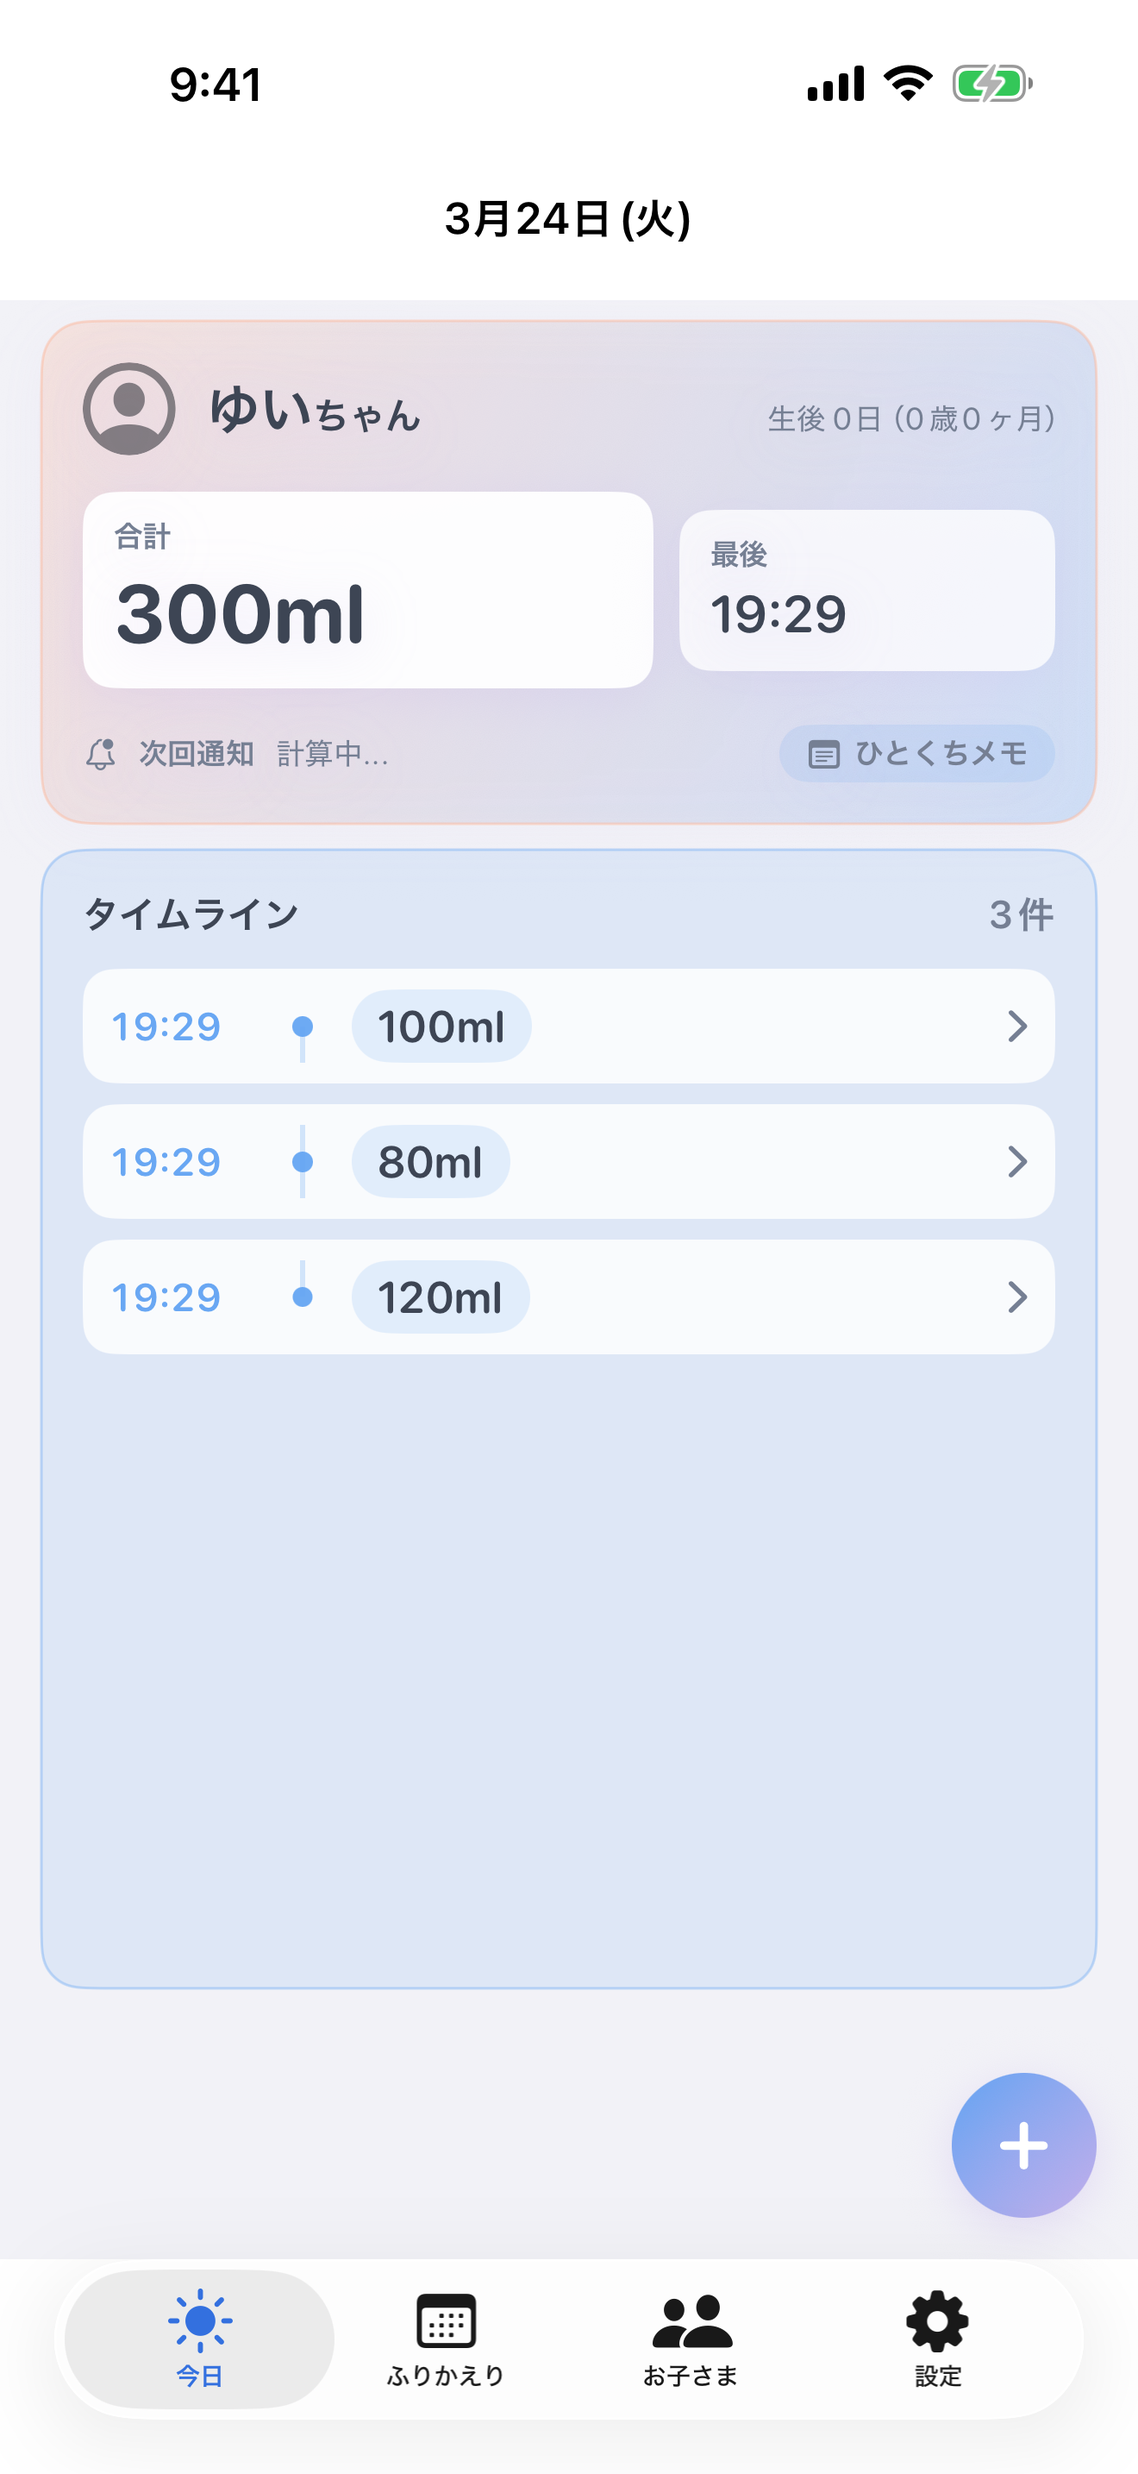
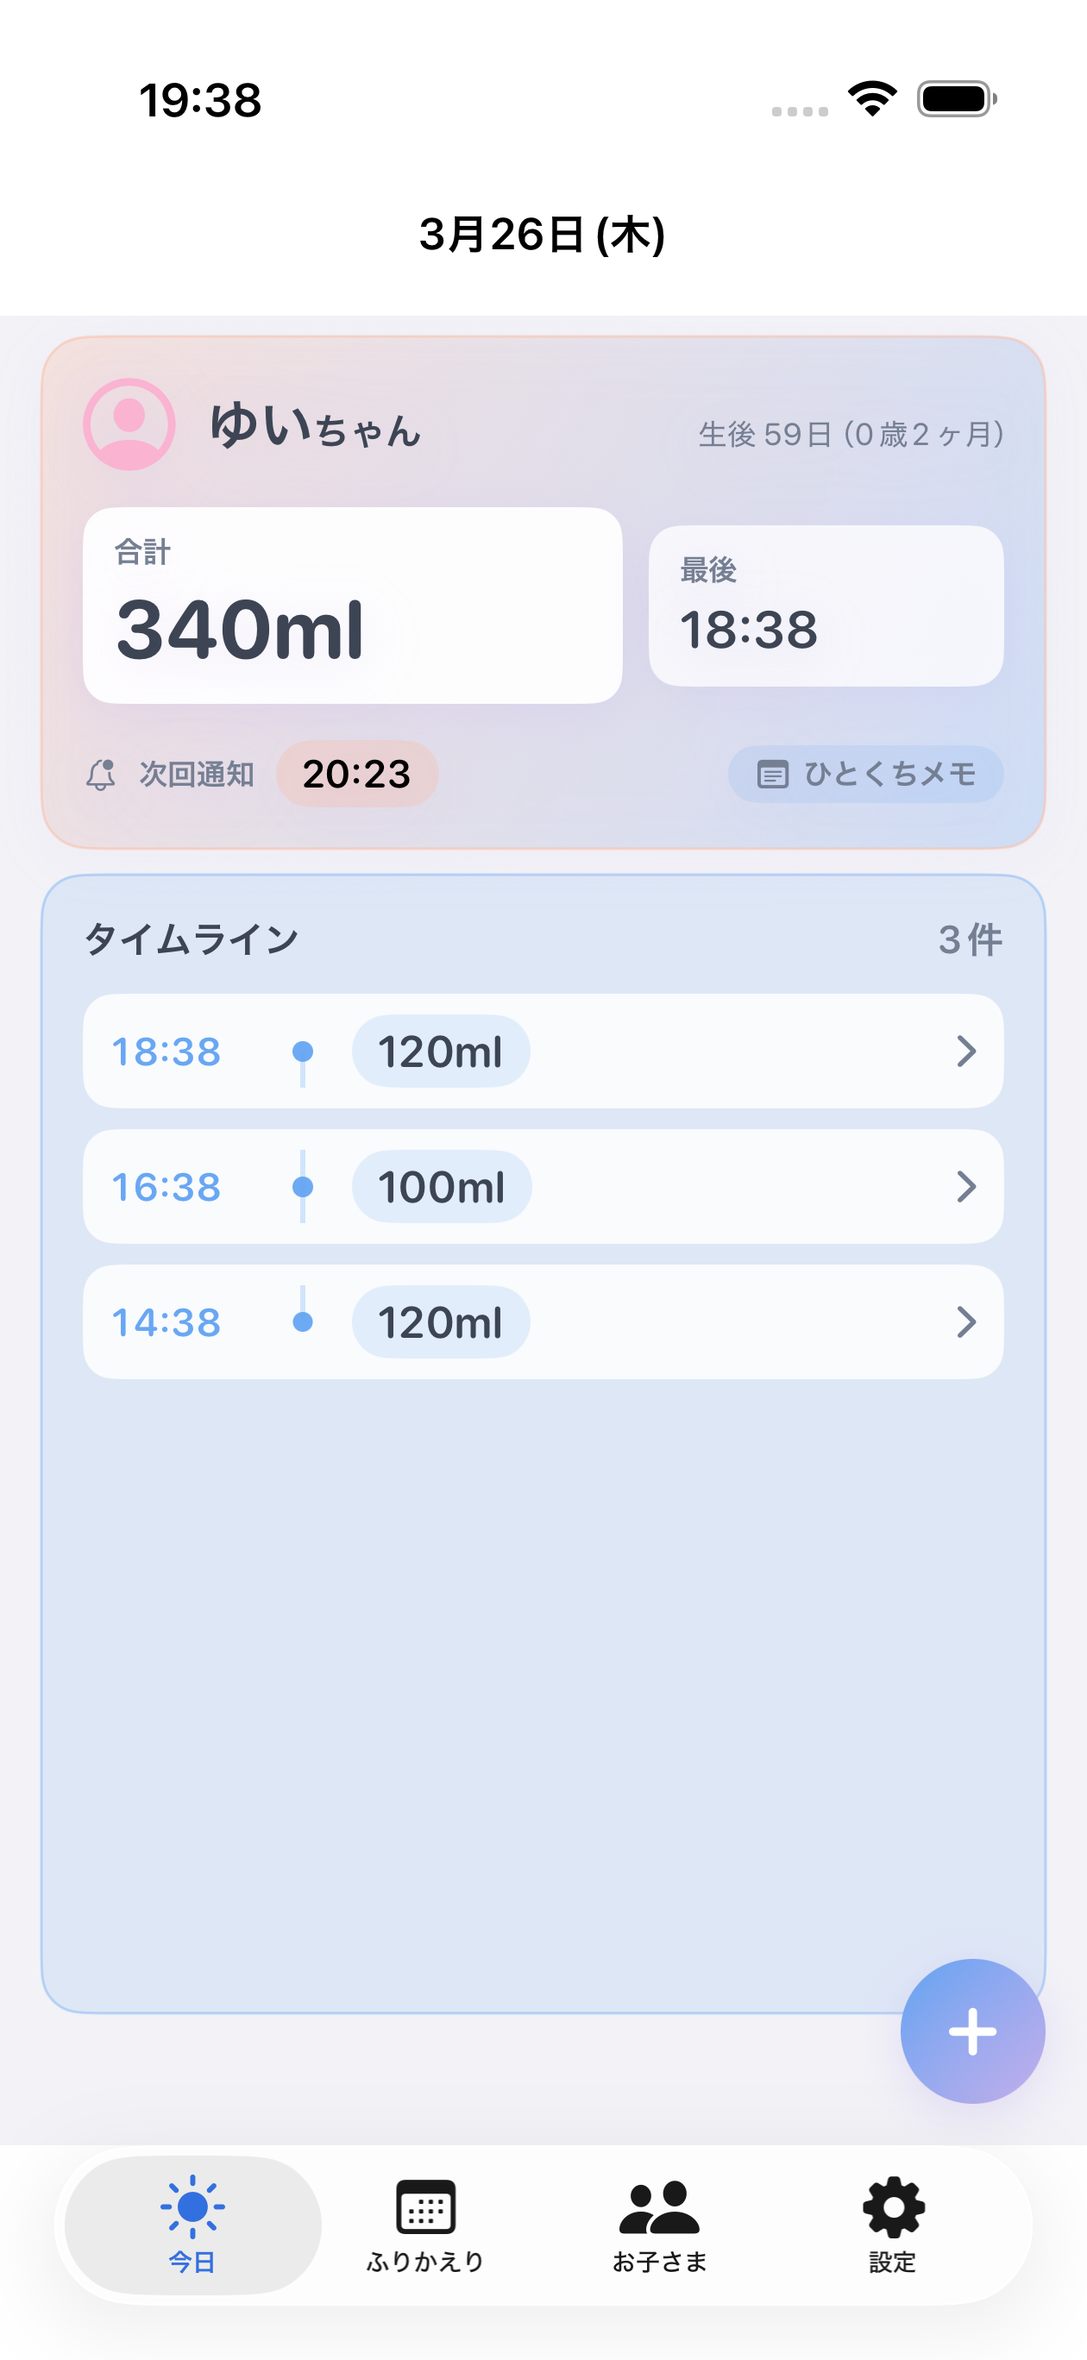
feat: ダークモード対応・テーマトグル・UI改善
- 公式App Storeバッジ（黒・白）に差し替え
- ダーク/ライト切替トグルボタンを追加（localStorage保存）
- ダークモードをアプリのカラーセットに準拠して実装
- ダーク時にスクリーンショットをdarkmode/に自動切替
- feature__bodyにスクロール表示アニメーションを追加
- App Store URLを本番URLに更新
- SP時のフォントサイズを13pxベースに縮小
- 文章を句点で改行区切りに調整

diff --git a/index.html b/index.html
@@ -30,13 +30,21 @@
 
   <!-- Global Nav -->
   <header class="global-nav">
+    <button class="theme-toggle" id="theme-toggle" aria-label="ダークモード切替">
+      <svg class="theme-toggle__sun" viewBox="0 0 24 24" fill="none" stroke="currentColor" stroke-width="1.8" aria-hidden="true">
+        <circle cx="12" cy="12" r="4"/><path d="M12 2v2M12 20v2M4.22 4.22l1.42 1.42M18.36 18.36l1.42 1.42M2 12h2M20 12h2M4.22 19.78l1.42-1.42M18.36 5.64l1.42-1.42"/>
+      </svg>
+      <svg class="theme-toggle__moon" viewBox="0 0 24 24" fill="none" stroke="currentColor" stroke-width="1.8" aria-hidden="true">
+        <path d="M21 12.79A9 9 0 1111.21 3 7 7 0 0021 12.79z"/>
+      </svg>
+    </button>
     <button class="hamburger" id="hamburger" aria-label="メニューを開く" aria-expanded="false" aria-controls="nav-menu">
       <span class="hamburger__line"></span>
       <span class="hamburger__line"></span>
       <span class="hamburger__line"></span>
     </button>
     <nav class="nav-menu" id="nav-menu" aria-hidden="true">
-      <a href="#" class="nav-menu__item" id="nav-store">App Storeでダウンロード</a>
+      <a href="https://apps.apple.com/app/id6761168385" target="_blank" rel="noopener noreferrer" class="nav-menu__item" id="nav-store">App Storeでダウンロード</a>
       <a href="./privacy/" class="nav-menu__item">プライバシーポリシー</a>
       <a href="https://docs.google.com/forms/d/e/1FAIpQLSebXE-oB0zj7e1wwz9V6bgFZXMlNq-PU2ME0EX8Ns8LvLQyqw/viewform"
         target="_blank" rel="noopener noreferrer" class="nav-menu__item">お問い合わせ</a>
@@ -54,13 +62,13 @@
         </div>
         <h1 class="hero__catch">声ひとつで、<br>ミルク記録。</h1>
         <p class="hero__sub">手が塞がっていても、Siriで即記録できる<br>赤ちゃんの授乳管理アプリ</p>
-        <a href="#" class="btn-badge" aria-label="App Storeからダウンロード">
-          <img src="./assets/images/appstore-badge.svg" alt="Download on the App Store" class="appstore-badge">
+        <a href="https://apps.apple.com/app/id6761168385" target="_blank" rel="noopener noreferrer" class="btn-badge" aria-label="App Storeからダウンロード">
+          <img src="./assets/images/appstore-badge.svg" data-light-src="./assets/images/appstore-badge.svg" data-dark-src="./assets/images/appstore-badge-white.svg" alt="Download on the App Store" class="appstore-badge">
         </a>
       </div>
       <div class="hero__mockup">
         <div class="phone-frame">
-          <img src="./assets/images/screenshots/today.png" alt="ミルログ 今日の記録画面">
+          <img src="./assets/images/screenshots/today.png" data-light-src="./assets/images/screenshots/today.png" data-dark-src="./assets/images/screenshots/darkmode/today.png" alt="ミルログ 今日の記録画面">
         </div>
       </div>
     </div>
@@ -100,7 +108,7 @@
           <p>記録をし忘れて<br>次の授乳がいつか分からない...</p>
         </div>
       </div>
-      <p class="problem__resolve">ミルログなら、<strong>声だけで記録。次回は自動でお知らせ。</strong></p>
+      <p class="problem__resolve">ミルログなら、<strong>声だけで記録。<br>次回は自動でお知らせ。</strong></p>
     </div>
   </section>
 
@@ -113,12 +121,12 @@
         <div class="feature__body">
           <span class="feature__num">01</span>
           <h3 class="feature__title">Siriで声ひとつ記録</h3>
-          <p class="feature__desc">「Hey Siri、ミルログでミルク120ミリ」のひと言で記録完了。抱っこ中も、深夜も、手を使わずに記録できます。タップ入力派にも、よく使う量のプリセットで素早く対応。
+          <p class="feature__desc">「Hey Siri、ミルログでミルク120ミリ」のひと言で記録完了。<br>抱っこ中も、深夜も、手を使わずに記録できます。<br>タップ入力派にも、よく使う量のプリセットで素早く対応。
           </p>
         </div>
         <div class="feature__screen">
           <div class="phone-frame phone-frame--sm">
-            <img src="./assets/images/screenshots/quickadd.png" alt="クイック入力画面">
+            <img src="./assets/images/screenshots/quickadd.png" data-light-src="./assets/images/screenshots/quickadd.png" data-dark-src="./assets/images/screenshots/darkmode/quickadd.png" alt="クイック入力画面">
           </div>
         </div>
       </div>
@@ -127,11 +135,11 @@
         <div class="feature__body">
           <span class="feature__num">02</span>
           <h3 class="feature__title">今日の状況をひと目で</h3>
-          <p class="feature__desc">合計量・最後の授乳時刻・次回通知時刻を一画面に集約。タイムラインで当日の記録を時系列で確認。タップで編集、長押しで削除と、操作も直感的です。</p>
+          <p class="feature__desc">合計量・最後の授乳時刻・次回通知時刻を一画面に集約。<br>タイムラインで当日の記録を時系列で確認。<br>タップで編集、長押しで削除と、操作も直感的です。</p>
         </div>
         <div class="feature__screen">
           <div class="phone-frame phone-frame--sm">
-            <img src="./assets/images/screenshots/today.png" alt="今日の記録画面">
+            <img src="./assets/images/screenshots/today.png" data-light-src="./assets/images/screenshots/today.png" data-dark-src="./assets/images/screenshots/darkmode/today.png" alt="今日の記録画面">
           </div>
         </div>
       </div>
@@ -140,11 +148,11 @@
         <div class="feature__body">
           <span class="feature__num">03</span>
           <h3 class="feature__title">次の授乳を自動通知</h3>
-          <p class="feature__desc">直近の授乳間隔から次回のタイミングを自動計算して通知。子どもごとに個別スケジュールで管理するから、複数のお子さまがいても安心です。</p>
+          <p class="feature__desc">直近の授乳間隔から次回のタイミングを自動計算して通知。<br>子どもごとに個別スケジュールで管理するから、複数のお子さまがいても安心です。</p>
         </div>
         <div class="feature__screen">
           <div class="phone-frame phone-frame--sm">
-            <img src="./assets/images/screenshots/today.png" alt="次回通知表示">
+            <img src="./assets/images/screenshots/today.png" data-light-src="./assets/images/screenshots/today.png" data-dark-src="./assets/images/screenshots/darkmode/today.png" alt="次回通知表示">
           </div>
         </div>
       </div>
@@ -153,11 +161,11 @@
         <div class="feature__body">
           <span class="feature__num">04</span>
           <h3 class="feature__title">週ごとにふりかえり</h3>
-          <p class="feature__desc">週間カレンダーと授乳量チャートで傾向を把握。ミルクだけでなく、母乳・混合にも対応。1日ごとのメモや気分も記録できる「ひとくちメモ」つき。</p>
+          <p class="feature__desc">週間カレンダーと授乳量チャートで傾向を把握。<br>ミルクだけでなく、母乳・混合にも対応。<br>1日ごとのメモや気分も記録できる「ひとくちメモ」つき。</p>
         </div>
         <div class="feature__screen">
           <div class="phone-frame phone-frame--sm">
-            <img src="./assets/images/screenshots/history.png" alt="ふりかえり画面">
+            <img src="./assets/images/screenshots/history.png" data-light-src="./assets/images/screenshots/history.png" data-dark-src="./assets/images/screenshots/darkmode/history.png" alt="ふりかえり画面">
           </div>
         </div>
       </div>
@@ -171,8 +179,8 @@
       <img src="./assets/images/icon.png" alt="ミルログ" class="cta-section__icon">
       <h2 class="cta-section__title">今日から記録をはじめよう</h2>
       <p class="cta-section__sub">無料でダウンロードできます</p>
-      <a href="#" class="btn-badge" aria-label="App Storeからダウンロード">
-        <img src="./assets/images/appstore-badge.svg" alt="Download on the App Store" class="appstore-badge">
+      <a href="https://apps.apple.com/app/id6761168385" target="_blank" rel="noopener noreferrer" class="btn-badge" aria-label="App Storeからダウンロード">
+        <img src="./assets/images/appstore-badge.svg" data-light-src="./assets/images/appstore-badge.svg" data-dark-src="./assets/images/appstore-badge-white.svg" alt="Download on the App Store" class="appstore-badge">
       </a>
     </div>
   </section>
@@ -191,6 +199,7 @@
   </footer>
 
   <script>
+    // --- Hamburger ---
     const hamburger = document.getElementById('hamburger');
     const menu = document.getElementById('nav-menu');
     const overlay = document.getElementById('nav-overlay');
@@ -214,12 +223,53 @@
     hamburger.addEventListener('click', () => {
       hamburger.classList.contains('is-open') ? closeMenu() : openMenu();
     });
-
     overlay.addEventListener('click', closeMenu);
-
     menu.querySelectorAll('.nav-menu__item').forEach(item => {
       item.addEventListener('click', closeMenu);
     });
+
+    // --- Theme Toggle ---
+    const themeToggle = document.getElementById('theme-toggle');
+    const STORAGE_KEY = 'millog-theme';
+
+    function getSystemTheme() {
+      return window.matchMedia('(prefers-color-scheme: dark)').matches ? 'dark' : 'light';
+    }
+
+    function applyTheme(theme) {
+      document.documentElement.dataset.theme = theme;
+      document.querySelectorAll('img[data-dark-src]').forEach(img => {
+        img.src = theme === 'dark' ? img.dataset.darkSrc : img.dataset.lightSrc;
+      });
+    }
+
+    // 初期テーマ（保存済み優先、なければシステム設定）
+    applyTheme(localStorage.getItem(STORAGE_KEY) || getSystemTheme());
+
+    themeToggle.addEventListener('click', () => {
+      const next = document.documentElement.dataset.theme === 'dark' ? 'light' : 'dark';
+      localStorage.setItem(STORAGE_KEY, next);
+      applyTheme(next);
+    });
+
+    // システム設定変更を検知（手動設定がない場合のみ追従）
+    window.matchMedia('(prefers-color-scheme: dark)').addEventListener('change', e => {
+      if (!localStorage.getItem(STORAGE_KEY)) {
+        applyTheme(e.matches ? 'dark' : 'light');
+      }
+    });
+
+    // --- Scroll Reveal ---
+    const observer = new IntersectionObserver((entries) => {
+      entries.forEach(entry => {
+        if (entry.isIntersecting) {
+          entry.target.classList.add('is-visible');
+          observer.unobserve(entry.target);
+        }
+      });
+    }, { threshold: 0.2 });
+
+    document.querySelectorAll('.feature__body').forEach(el => observer.observe(el));
   </script>
 
 </body>

diff --git a/style.css b/style.css
@@ -117,6 +117,9 @@ footer {
   top: 20px;
   right: 20px;
   z-index: 200;
+  display: flex;
+  align-items: center;
+  gap: 8px;
 }
 
 /* Hamburger button */
@@ -382,6 +385,14 @@ footer {
 .feature__body {
   text-align: center;
   max-width: 480px;
+  opacity: 0;
+  transform: translateY(24px);
+  transition: opacity 0.6s ease, transform 0.6s ease;
+}
+
+.feature__body.is-visible {
+  opacity: 1;
+  transform: translateY(0);
 }
 
 .feature__num {
@@ -535,6 +546,10 @@ footer {
 
 /* ---------- Mobile ---------- */
 @media (max-width: 767px) {
+  html {
+    font-size: 81.25%; /* 16px → 13px、rem全体を約18.75%縮小 */
+  }
+
   .hero {
     padding: 56px 0 0;
   }
@@ -641,4 +656,155 @@ footer {
   .phone-frame--sm {
     width: 250px;
   }
+}
+
+/* ---------- Theme Toggle Button ---------- */
+.theme-toggle {
+  width: 44px;
+  height: 44px;
+  background: rgba(255, 255, 255, 0.85);
+  backdrop-filter: blur(12px);
+  -webkit-backdrop-filter: blur(12px);
+  border: none;
+  border-radius: 12px;
+  box-shadow: 0 2px 12px rgba(0, 0, 0, 0.10);
+  cursor: pointer;
+  display: flex;
+  align-items: center;
+  justify-content: center;
+  color: var(--text-primary);
+  position: relative;
+  z-index: 110;
+}
+
+.theme-toggle svg {
+  width: 20px;
+  height: 20px;
+  position: absolute;
+  transition: opacity 0.2s ease, transform 0.2s ease;
+}
+
+/* ライト時: moon表示、sun非表示 */
+.theme-toggle__sun  { opacity: 0; transform: scale(0.7); }
+.theme-toggle__moon { opacity: 1; transform: scale(1); }
+
+/* ダーク時: sun表示、moon非表示 */
+html[data-theme="dark"] .theme-toggle__sun  { opacity: 1; transform: scale(1); }
+html[data-theme="dark"] .theme-toggle__moon { opacity: 0; transform: scale(0.7); }
+
+/* ---------- Dark Mode ---------- */
+@media (prefers-color-scheme: dark) {
+  html:not([data-theme="light"]) .theme-toggle {
+    background: rgba(255, 255, 255, 0.08);
+    box-shadow: 0 2px 12px rgba(0, 0, 0, 0.3);
+  }
+  html:not([data-theme="light"]) .theme-toggle__sun  { opacity: 1; transform: scale(1); }
+  html:not([data-theme="light"]) .theme-toggle__moon { opacity: 0; transform: scale(0.7); }
+}
+
+html[data-theme="dark"] .theme-toggle {
+  background: rgba(255, 255, 255, 0.08);
+  box-shadow: 0 2px 12px rgba(0, 0, 0, 0.3);
+}
+
+@media (prefers-color-scheme: dark) {
+  html:not([data-theme="light"]) {
+    --blue:            #8AC2F7;
+    --peach:           #F1A694;
+    --lavender:        #A08DE6;
+    --bg:              #1C1C1E;
+    --white:           #2C2C2E;
+    --text-primary:    rgba(255, 255, 255, 0.90);
+    --text-secondary:  rgba(255, 255, 255, 0.68);
+    --shadow-card:     0 4px 24px rgba(0, 0, 0, 0.34);
+    --shadow-phone:    0 24px 64px rgba(0, 0, 0, 0.5);
+  }
+  html:not([data-theme="light"]) body { background: var(--bg); }
+  html:not([data-theme="light"]) .hero {
+    background: linear-gradient(160deg, rgba(241,166,148,0.26) 0%, rgba(138,194,247,0.22) 55%, rgba(160,141,230,0.18) 100%);
+  }
+  html:not([data-theme="light"]) .problem {
+    background: linear-gradient(160deg, rgba(241,166,148,0.20) 0%, rgba(241,166,148,0.14) 60%, rgba(138,194,247,0.16) 100%);
+  }
+  html:not([data-theme="light"]) .problem__card,
+  html:not([data-theme="light"]) .problem__resolve {
+    background: rgba(138,194,247,0.12);
+    box-shadow: 0 4px 20px rgba(0,0,0,0.34), 0 1px 4px rgba(0,0,0,0.2);
+    border: 1px solid rgba(138,194,247,0.34);
+  }
+  html:not([data-theme="light"]) .hamburger {
+    background: rgba(255,255,255,0.08);
+    box-shadow: 0 2px 12px rgba(0,0,0,0.3);
+  }
+  html:not([data-theme="light"]) .nav-menu {
+    background: rgba(44,44,46,0.96);
+    box-shadow: 0 8px 32px rgba(0,0,0,0.4);
+  }
+  html:not([data-theme="light"]) .nav-menu__item { border-bottom-color: rgba(255,255,255,0.06); }
+  html:not([data-theme="light"]) .nav-overlay { background: rgba(0,0,0,0.5); }
+  html:not([data-theme="light"]) .cta-section {
+    background: linear-gradient(135deg, #8AC2F7 0%, #A08DE6 100%);
+  }
+  html:not([data-theme="light"]) .footer {
+    background: #111113;
+  }
+  html:not([data-theme="light"]) .cta-section {
+    color: #FFFFFF;
+  }
+  html:not([data-theme="light"]) .footer__name {
+    color: #FFFFFF;
+  }
+  html:not([data-theme="light"]) .footer__nav a:hover {
+    color: #FFFFFF;
+  }
+}
+
+html[data-theme="dark"] {
+  --blue:            #8AC2F7;
+  --peach:           #F1A694;
+  --lavender:        #A08DE6;
+  --bg:              #1C1C1E;
+  --white:           #2C2C2E;
+  --text-primary:    rgba(255, 255, 255, 0.90);
+  --text-secondary:  rgba(255, 255, 255, 0.68);
+  --shadow-card:     0 4px 24px rgba(0, 0, 0, 0.34);
+  --shadow-phone:    0 24px 64px rgba(0, 0, 0, 0.5);
+}
+html[data-theme="dark"] body { background: var(--bg); }
+html[data-theme="dark"] .hero {
+  background: linear-gradient(160deg, rgba(241,166,148,0.26) 0%, rgba(138,194,247,0.22) 55%, rgba(160,141,230,0.18) 100%);
+}
+html[data-theme="dark"] .problem {
+  background: linear-gradient(160deg, rgba(241,166,148,0.20) 0%, rgba(241,166,148,0.14) 60%, rgba(138,194,247,0.16) 100%);
+}
+html[data-theme="dark"] .problem__card,
+html[data-theme="dark"] .problem__resolve {
+  background: rgba(138,194,247,0.12);
+  box-shadow: 0 4px 20px rgba(0,0,0,0.34), 0 1px 4px rgba(0,0,0,0.2);
+  border: 1px solid rgba(138,194,247,0.34);
+}
+html[data-theme="dark"] .hamburger {
+  background: rgba(255,255,255,0.08);
+  box-shadow: 0 2px 12px rgba(0,0,0,0.3);
+}
+html[data-theme="dark"] .nav-menu {
+  background: rgba(44,44,46,0.96);
+  box-shadow: 0 8px 32px rgba(0,0,0,0.4);
+}
+html[data-theme="dark"] .nav-menu__item { border-bottom-color: rgba(255,255,255,0.06); }
+html[data-theme="dark"] .nav-overlay { background: rgba(0,0,0,0.5); }
+html[data-theme="dark"] .cta-section {
+  background: linear-gradient(135deg, #8AC2F7 0%, #A08DE6 100%);
+}
+html[data-theme="dark"] .footer {
+  background: #111113;
+}
+html[data-theme="dark"] .cta-section {
+  color: #FFFFFF;
+}
+html[data-theme="dark"] .footer__name {
+  color: #FFFFFF;
+}
+html[data-theme="dark"] .footer__nav a:hover {
+  color: #FFFFFF;
 }
